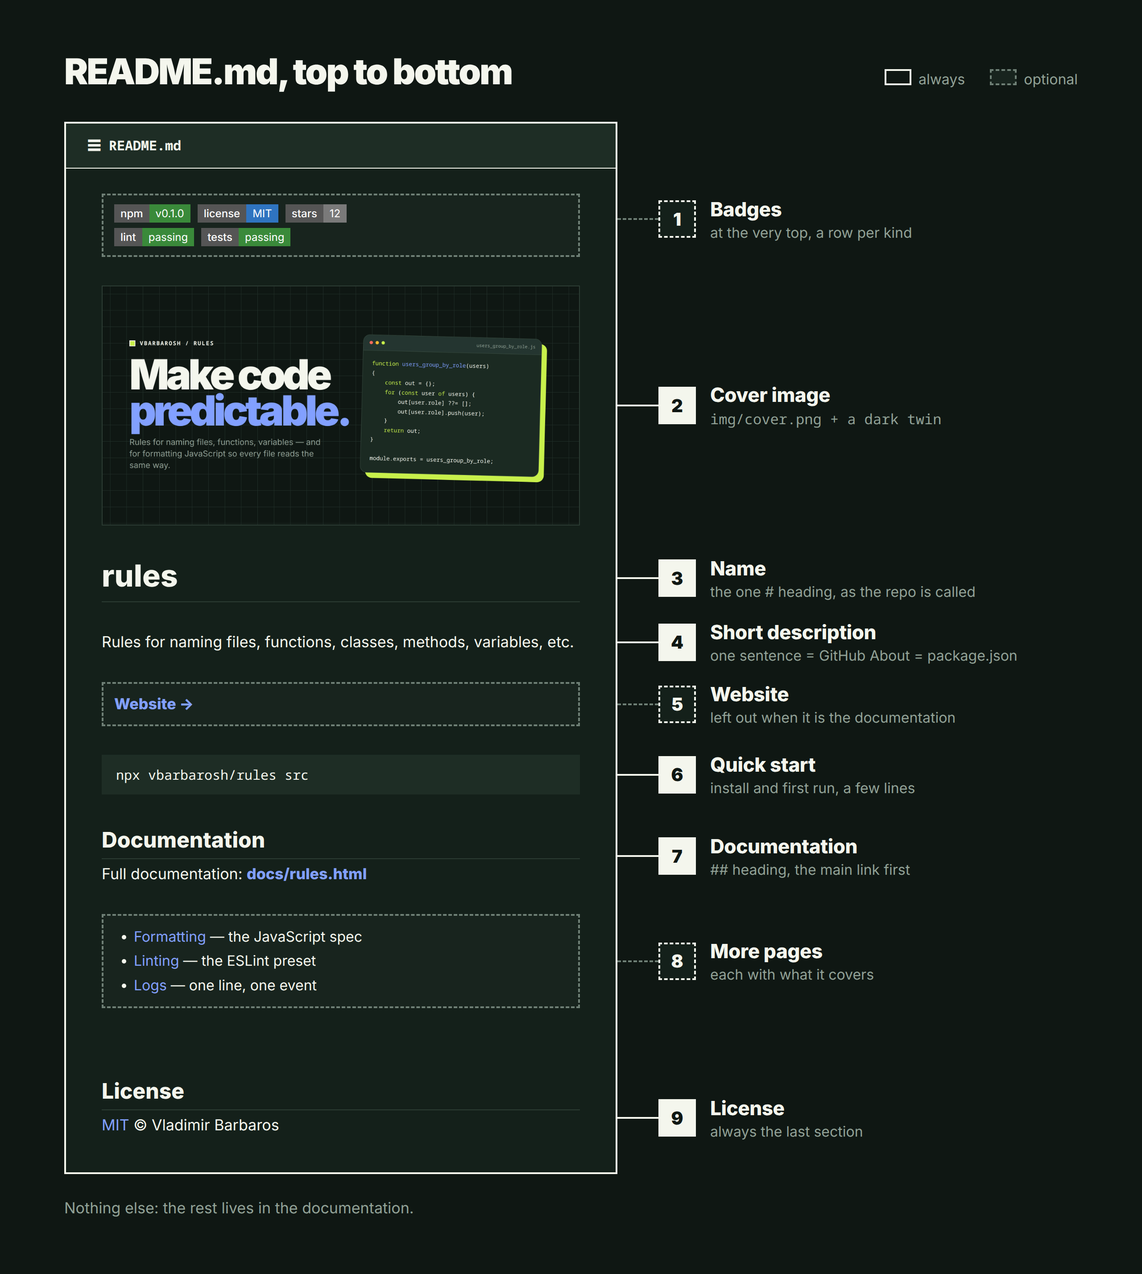
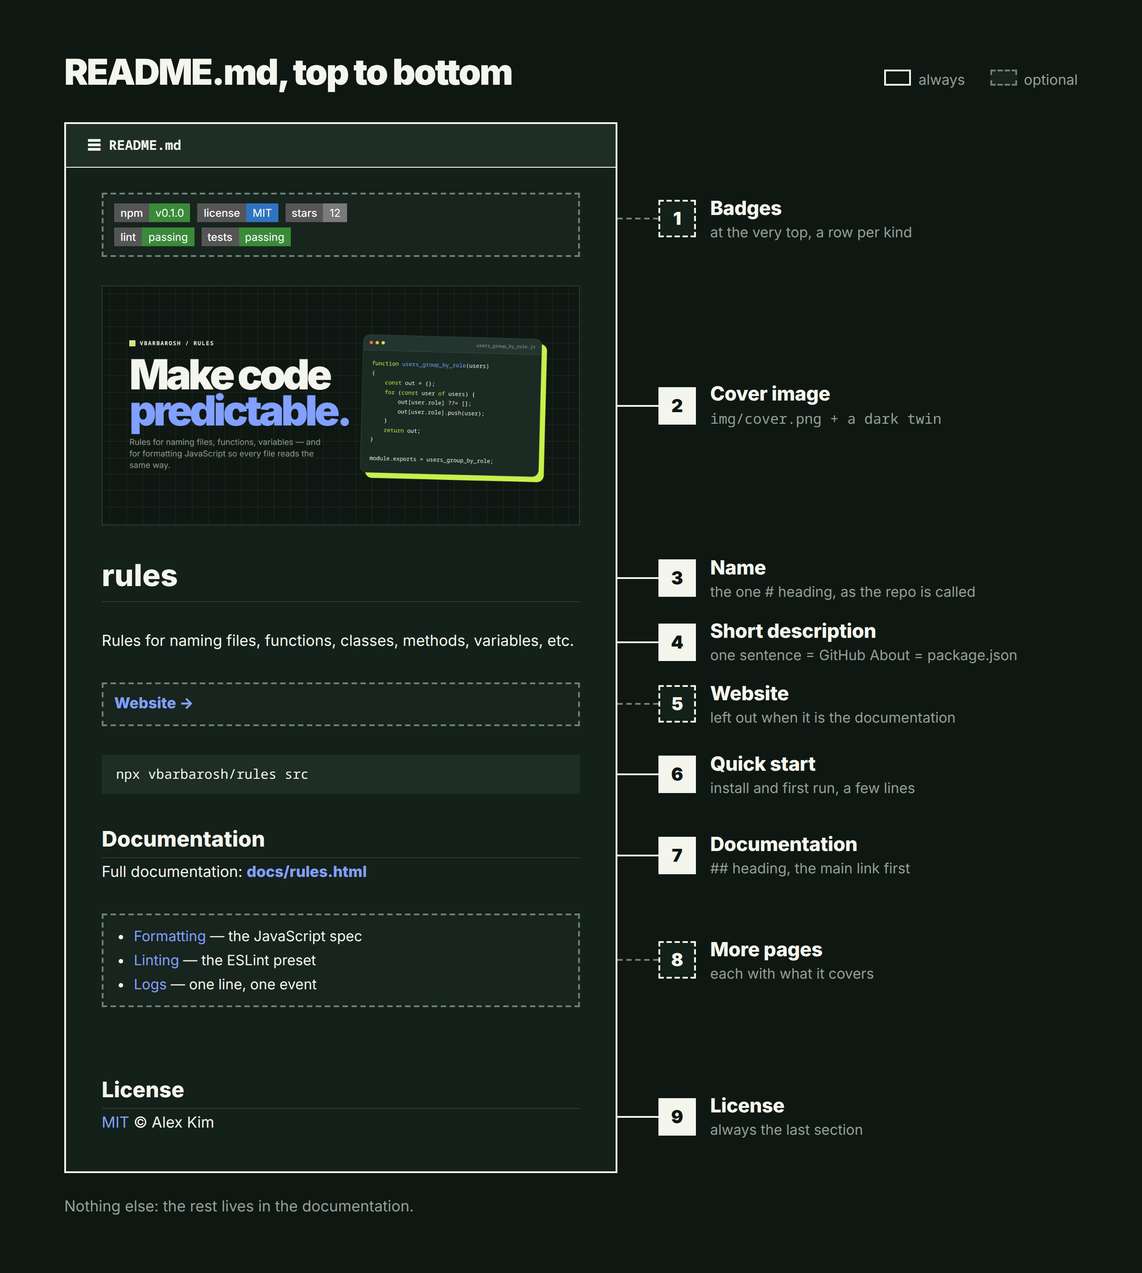
rules: show only what works; examples use made-up names

diff --git a/docs/rules.html b/docs/rules.html
@@ -982,7 +982,7 @@ footer .lead {
     </div>
     <h1>The Rule Index</h1>
     <p class="lede">Every rule in this repository, stated once, in one table. Each row cites the document it came from; that document stays the source of truth.</p>
-    <p class="stats"><b>266</b> rules<i>·</i><b>18</b> groups<i>·</i><b>51</b> sources</p>
+    <p class="stats"><b>269</b> rules<i>·</i><b>18</b> groups<i>·</i><b>52</b> sources</p>
 </div>
 </header>
 
@@ -991,7 +991,7 @@ footer .lead {
         <label class="search">
             <input id="q" type="search" autocomplete="off" spellcheck="false" placeholder="filter rules, e.g. brace, _by_, logs.md" aria-label="Filter rules">
         </label>
-        <span class="count" id="count">266 rules</span>
+        <span class="count" id="count">269 rules</span>
         <button class="copy-shown" id="copy_shown" type="button" title="Copy the rules shown, as Markdown">Copy</button>
         <div class="theme theme-docked">
             <button type="button" aria-label="Light theme. Switch to dark theme." title="Light theme. Switch to dark theme."><!-- theme-icons --><!-- Docusaurus icons: MIT, Copyright Facebook, Inc. and its affiliates. See img/theme-icons.LICENSE. --><svg class="theme-icon theme-light" aria-hidden="true" focusable="false" xmlns="http://www.w3.org/2000/svg" viewBox="0 0 24 24" width="24" height="24"><path fill="currentColor" d="M12,9c1.65,0,3,1.35,3,3s-1.35,3-3,3s-3-1.35-3-3S10.35,9,12,9 M12,7c-2.76,0-5,2.24-5,5s2.24,5,5,5s5-2.24,5-5 S14.76,7,12,7L12,7z M2,13l2,0c0.55,0,1-0.45,1-1s-0.45-1-1-1l-2,0c-0.55,0-1,0.45-1,1S1.45,13,2,13z M20,13l2,0c0.55,0,1-0.45,1-1 s-0.45-1-1-1l-2,0c-0.55,0-1,0.45-1,1S19.45,13,20,13z M11,2v2c0,0.55,0.45,1,1,1s1-0.45,1-1V2c0-0.55-0.45-1-1-1S11,1.45,11,2z M11,20v2c0,0.55,0.45,1,1,1s1-0.45,1-1v-2c0-0.55-0.45-1-1-1C11.45,19,11,19.45,11,20z M5.99,4.58c-0.39-0.39-1.03-0.39-1.41,0 c-0.39,0.39-0.39,1.03,0,1.41l1.06,1.06c0.39,0.39,1.03,0.39,1.41,0s0.39-1.03,0-1.41L5.99,4.58z M18.36,16.95 c-0.39-0.39-1.03-0.39-1.41,0c-0.39,0.39-0.39,1.03,0,1.41l1.06,1.06c0.39,0.39,1.03,0.39,1.41,0c0.39-0.39,0.39-1.03,0-1.41 L18.36,16.95z M19.42,5.99c0.39-0.39,0.39-1.03,0-1.41c-0.39-0.39-1.03-0.39-1.41,0l-1.06,1.06c-0.39,0.39-0.39,1.03,0,1.41 s1.03,0.39,1.41,0L19.42,5.99z M7.05,18.36c0.39-0.39,0.39-1.03,0-1.41c-0.39-0.39-1.03-0.39-1.41,0l-1.06,1.06 c-0.39,0.39-0.39,1.03,0,1.41s1.03,0.39,1.41,0L7.05,18.36z"/></svg><svg class="theme-icon theme-dark" aria-hidden="true" focusable="false" xmlns="http://www.w3.org/2000/svg" viewBox="0 0 24 24" width="24" height="24"><path fill="currentColor" d="M9.37,5.51C9.19,6.15,9.1,6.82,9.1,7.5c0,4.08,3.32,7.4,7.4,7.4c0.68,0,1.35-0.09,1.99-0.27C17.45,17.19,14.93,19,12,19 c-3.86,0-7-3.14-7-7C5,9.07,6.81,6.55,9.37,5.51z M12,3c-4.97,0-9,4.03-9,9s4.03,9,9,9s9-4.03,9-9c0-0.46-0.04-0.92-0.1-1.36 c-0.98,1.37-2.58,2.26-4.4,2.26c-2.98,0-5.4-2.42-5.4-5.4c0-1.81,0.89-3.42,2.26-4.4C12.92,3.04,12.46,3,12,3L12,3z"/></svg><!-- /theme-icons --></button>
@@ -1017,7 +1017,7 @@ footer .lead {
 <a href="#SQL" data-group="SQL"><span class="tag">SQL</span><span class="name">SQL queries</span><span class="n">6</span></a>
 <a href="#VUE" data-group="VUE"><span class="tag">VUE</span><span class="name">Vue 2</span><span class="n">19</span></a>
 <a href="#UI" data-group="UI"><span class="tag">UI</span><span class="name">UI appearance</span><span class="n">8</span></a>
-<a href="#UIM" data-group="UIM"><span class="tag">UIM</span><span class="name">UI mechanics</span><span class="n">12</span></a>
+<a href="#UIM" data-group="UIM"><span class="tag">UIM</span><span class="name">UI mechanics</span><span class="n">15</span></a>
 <a href="#DOC" data-group="DOC"><span class="tag">DOC</span><span class="name">Writing the rules</span><span class="n">13</span></a>
 <a href="#LINT" data-group="LINT"><span class="tag">LINT</span><span class="name">Stated by the linter</span><span class="n">11</span></a>
 </nav>
@@ -1365,7 +1365,7 @@ format_bytes(bytes)             <span class="yes">✓ right</span></pre><button 
 <article class="rule" id="FN-04">
 <a class="code" href="#FN-04">FN-04</a>
 <div class="text"><p><strong>"format" is not serialization.</strong> <code>format_*</code> is not for machine formats. Serialization is conversion, not display.</p><a class="src" href="https://github.com/vbarbarosh/rules/blob/main/drafts/format_xxx.md" title="drafts/format_xxx.md">format_xxx.md</a><button class="copy-rule" type="button" title="Copy this rule as Markdown">Copy</button></div>
-<div class="form"><pre>format_user(user)     <span class="cmt">// "Vladimir B. (admin)" — humans</span>
+<div class="form"><pre>format_user(user)     <span class="cmt">// "Alex K. (admin)" — humans</span>
 json_from_user(user)  <span class="cmt">// machines</span></pre><button class="copy" type="button">Copy</button></div>
 </article>
 <article class="rule" id="FN-06">
@@ -2031,7 +2031,7 @@ docker run -v /srv/app/data:/app/data app</pre><button class="copy" type="button
 <article class="rule" id="PROJ-20">
 <a class="code" href="#PROJ-20">PROJ-20</a>
 <div class="text"><p><strong>The README runs in a fixed order.</strong> A GitHub <code>README.md</code> runs in one order: badges, cover image, name, short description, website, quick start, documentation, license. Badges, the website link and the further documentation pages may be absent; the rest are always there.</p><a class="src" href="https://github.com/vbarbarosh/rules/blob/main/drafts/readme.md" title="drafts/readme.md">readme.md</a><button class="copy-rule" type="button" title="Copy this rule as Markdown">Copy</button></div>
-<a class="form figure" href="../drafts/readme-structure.png"><img class="light" src="../drafts/readme-structure.png" alt="the parts of a README, top to bottom" width="2560" height="2856" loading="lazy"><img class="dark" src="../drafts/readme-structure-dark.png" alt="the parts of a README, top to bottom" width="2560" height="2856" loading="lazy"></a>
+<a class="form figure" href="../drafts/readme-structure.png"><img class="light" src="../drafts/readme-structure.png" alt="the parts of a README, top to bottom" width="2560" height="2854" loading="lazy"><img class="dark" src="../drafts/readme-structure-dark.png" alt="the parts of a README, top to bottom" width="2560" height="2854" loading="lazy"></a>
 </article>
 <article class="rule bare" id="PROJ-21">
 <a class="code" href="#PROJ-21">PROJ-21</a>
@@ -2687,6 +2687,22 @@ window.addEventListener('drop', v =&gt; v.preventDefault());</pre><button class=
 <a class="code" href="#UIM-12">UIM-12</a>
 <div class="text"><p><strong>Select the first actionable item by default.</strong> In a list of action targets, the first visible actionable item in displayed order is selected by default; Enter acts on it. An explicit user selection wins. A new filtered list defaults to its first actionable item; an empty list has no action.</p><a class="src" href="https://github.com/vbarbarosh/rules/blob/main/drafts/default_list_item.md" title="drafts/default_list_item.md">default_list_item.md</a><button class="copy-rule" type="button" title="Copy this rule as Markdown">Copy</button></div>
 <div class="form"><pre>SQLite, LinkedIn → Enter opens SQLite</pre><button class="copy" type="button">Copy</button></div>
+</article>
+<article class="rule" id="UIM-13">
+<a class="code" href="#UIM-13">UIM-13</a>
+<div class="text"><p><strong>Show only what works.</strong> A control the app already knows will fail is not drawn as if it would work: an expired option, the button of an ended chat, an action the user has no right to. Nobody presses a button to be told "Sorry, this has expired".</p><a class="src" href="https://github.com/vbarbarosh/rules/blob/main/drafts/dead_controls.md" title="drafts/dead_controls.md">dead_controls.md</a><button class="copy-rule" type="button" title="Copy this rule as Markdown">Copy</button></div>
+<a class="form figure" href="../drafts/dead-controls.png"><img class="light" src="../drafts/dead-controls.png" alt="a support chat: on the left End chat answers Sorry, this option has timed out; on the right the expired options are gone and the reason is shown" width="2560" height="1284" loading="lazy"><img class="dark" src="../drafts/dead-controls-dark.png" alt="a support chat: on the left End chat answers Sorry, this option has timed out; on the right the expired options are gone and the reason is shown" width="2560" height="1284" loading="lazy"></a>
+</article>
+<article class="rule" id="UIM-14">
+<a class="code" href="#UIM-14">UIM-14</a>
+<div class="text"><p><strong>Ask the action first: a dry run.</strong> Every action can answer "would it work now?" without doing anything. The screen asks before drawing the control, and again whenever the answer can change; a button that expires on screen changes at that moment, not on the next click.</p><a class="src" href="https://github.com/vbarbarosh/rules/blob/main/drafts/dead_controls.md" title="drafts/dead_controls.md">dead_controls.md</a><button class="copy-rule" type="button" title="Copy this rule as Markdown">Copy</button></div>
+<div class="form"><pre>can_end_chat(chat) → false
+→ no End chat button</pre><button class="copy" type="button">Copy</button></div>
+</article>
+<article class="rule" id="UIM-15">
+<a class="code" href="#UIM-15">UIM-15</a>
+<div class="text"><p><strong>No means hidden, or disabled with the reason on it.</strong> Hide what nobody would look for there; disable what the user expects in its place, with the reason written on it or beside it. Never a control whose only answer comes after the click.</p><a class="src" href="https://github.com/vbarbarosh/rules/blob/main/drafts/dead_controls.md" title="drafts/dead_controls.md">dead_controls.md</a><button class="copy-rule" type="button" title="Copy this rule as Markdown">Copy</button></div>
+<div class="form"><pre>Expired yesterday at 10:51</pre><button class="copy" type="button">Copy</button></div>
 </article>
 </section>
 <section class="group" id="DOC">

diff --git a/drafts/dead-controls.html b/drafts/dead-controls.html
@@ -1,0 +1,121 @@
+<!doctype html>
+<html>
+<head>
+<meta charset="utf-8">
+<title>Dead controls</title>
+<style>
+:root {
+    --bg: #f3f0e8;
+    --paper: #fffdf7;
+    --ink: #172019;
+    --muted: #687168;
+    --line: #c9cec4;
+    --bubble: #eeebe2;
+    --accent: #3d62ff;
+    --no: #d63b3b;
+    --yes: #2f8a4a;
+}
+
+html.dark {
+    --bg: #0f1713;
+    --paper: #14201a;
+    --ink: #f4f6ed;
+    --muted: #91a196;
+    --line: #2c3c33;
+    --bubble: #1e2d25;
+    --accent: #82a0ff;
+    --no: #ff6b6b;
+    --yes: #5fd08a;
+}
+
+* { box-sizing: border-box; }
+
+html,
+body { margin: 0; width: 1280px; }
+
+body {
+    padding: 48px 72px 52px;
+    background: var(--bg);
+    color: var(--ink);
+    font-family: Inter, ui-sans-serif, system-ui, sans-serif;
+}
+
+.title { margin-bottom: 28px; font-size: 40px; font-weight: 900; letter-spacing: -0.04em; }
+
+.panels { display: grid; grid-template-columns: 1fr 1fr; gap: 40px; }
+
+.caption { margin-bottom: 12px; font-size: 22px; font-weight: 800; }
+
+.caption.no { color: var(--no); }
+
+.caption.yes { color: var(--yes); }
+
+.caption span { font-weight: 400; color: var(--muted); }
+
+.screen { position: relative; height: 380px; padding: 18px 20px; border: 2px solid var(--ink); background: var(--paper); overflow: hidden; }
+
+.time { margin-bottom: 10px; font-size: 14px; text-align: center; color: var(--muted); }
+
+.bubble { padding: 14px 16px; border-radius: 12px; background: var(--bubble); font-size: 17px; }
+
+.button { margin-top: 10px; padding: 10px; border: 2px solid var(--ink); border-radius: 22px; font-size: 17px; font-weight: 700; text-align: center; }
+
+.button.is-main { border-color: var(--accent); background: var(--accent); color: var(--paper); }
+
+.button.is-pressed { outline: 3px solid var(--no); outline-offset: 3px; }
+
+.expired { margin-top: 12px; font-size: 15px; color: var(--muted); }
+
+.composer { position: absolute; left: 20px; right: 20px; bottom: 18px; padding: 12px 16px; border: 1px solid var(--line); border-radius: 10px; font-size: 16px; color: var(--muted); }
+
+.toast {
+    position: absolute;
+    left: 50%;
+    top: 226px;
+    width: 420px;
+    padding: 14px 18px;
+    border-radius: 10px;
+    background: var(--ink);
+    color: var(--paper);
+    font-size: 16px;
+    text-align: center;
+    transform: translateX(-50%);
+}
+
+.foot { margin-top: 26px; font-size: 18px; color: var(--muted); }
+
+.foot b { color: var(--ink); }
+</style>
+<script>
+if (location.search === '?dark') {
+    document.documentElement.classList.add('dark');
+}
+</script>
+</head>
+<body>
+<div class="title">Show only what works: no button that only says “Sorry”</div>
+<div class="panels">
+    <div>
+        <div class="caption no">✗ Not this <span>pressed, then told it expired</span></div>
+        <div class="screen">
+            <div class="time">Yesterday 10:51</div>
+            <div class="bubble">Is there anything else I can help with?</div>
+            <div class="button is-main">Continue chat</div>
+            <div class="button is-pressed">End chat</div>
+            <div class="toast">Sorry, this option has timed out. Please type your request in the chat.</div>
+            <div class="composer">Type a message</div>
+        </div>
+    </div>
+    <div>
+        <div class="caption yes">✓ This <span>the app knew; it says so up front</span></div>
+        <div class="screen">
+            <div class="time">Yesterday 10:51</div>
+            <div class="bubble">Is there anything else I can help with?</div>
+            <div class="expired">These options expired yesterday at 10:51. Type below to go on.</div>
+            <div class="composer">Type a message</div>
+        </div>
+    </div>
+</div>
+<div class="foot"><b>Before drawing a control, ask its action “would this work now?”</b> No: hide it, or disable it with the reason on it.</div>
+</body>
+</html>

diff --git a/drafts/readme-structure.html b/drafts/readme-structure.html
@@ -327,7 +327,7 @@ if (location.search === '?dark') {
 
     <div class="page page-last">
         <div class="part h2">License</div>
-        <div class="part text"><a>MIT</a> &copy; Vladimir Barbaros</div>
+        <div class="part text"><a>MIT</a> &copy; Alex Kim</div>
     </div>
     <div class="label">
         <div class="num">9</div>

diff --git a/docs/rules.md b/docs/rules.md
@@ -3,7 +3,7 @@
 Every rule in this repository, stated once, in one table. Each row cites the
 document it came from; that document stays the source of truth.
 
-266 rules · 18 groups · 51 sources · filterable version: [rules.html](rules.html)
+269 rules · 18 groups · 52 sources · filterable version: [rules.html](rules.html)
 
 Codes match [rules.html](rules.html): a rule that page does not carry is
 appended to the end of its group, and `LINT` is a group of its own.
@@ -29,7 +29,7 @@ In the canonical forms, `✓` and `✗` are verdicts, not code.
 | SQL | SQL queries | 6 | MySQL: upper-case keywords; the query laid out like code. |
 | VUE | Vue 2 | 19 | Components that behave like the platform. |
 | UI | UI appearance | 8 | How a screen looks. |
-| UIM | UI mechanics | 12 | How a screen works. |
+| UIM | UI mechanics | 15 | How a screen works. |
 | DOC | Writing the rules | 13 | How a document in this repo is built. |
 | LINT | Stated by the linter | 11 | Rules that only LINTING.md and the preset spell out. |
 
@@ -82,7 +82,7 @@ In the canonical forms, `✓` and `✗` are verdicts, not code.
 | FN-05 | **"render" constructs asset content.** `render_*` constructs content such as CSS, HTML or SVG from state. The result can be a string; its purpose is an asset rather than a human-facing formatted value. | <pre>public function render_css(): string<br>{<br>    return "body { color: {$this-&gt;text_color}; }";<br>}</pre> | [render_xxx.md](../drafts/render_xxx.md) |
 | FN-02 | **Never hand-roll a display conversion.** A display conversion is never hand-rolled at a call site — an inline one is a missed `format_*`. | <pre>${Math.round(bytes / 1024)}kB   ✗ missed call<br>format_bytes(bytes)             ✓ right</pre> | [format_xxx.md](../drafts/format_xxx.md) |
 | FN-03 | **`format_*` returns — it never prints.** Output is the caller’s job. | `console.log(format_tree(tree));` | [format_xxx.md](../drafts/format_xxx.md) |
-| FN-04 | **"format" is not serialization.** `format_*` is not for machine formats. Serialization is conversion, not display. | <pre>format_user(user)     // "Vladimir B. (admin)" — humans<br>json_from_user(user)  // machines</pre> | [format_xxx.md](../drafts/format_xxx.md) |
+| FN-04 | **"format" is not serialization.** `format_*` is not for machine formats. Serialization is conversion, not display. | <pre>format_user(user)     // "Alex K. (admin)" — humans<br>json_from_user(user)  // machines</pre> | [format_xxx.md](../drafts/format_xxx.md) |
 | FN-06 | **"render" is recomputed, never stored.** The prefix separates constructed content from stored attributes. `render_*` is recomputed per call — never cached, never stored. | <pre>$this-&gt;text_color     // stored attribute<br>$this-&gt;render_css()   // constructed content</pre> | [render_xxx.md](../drafts/render_xxx.md) |
 | FN-07 | **"render" may return null or throw.** `render_*` may return `null` when not applicable, and may throw when the state makes the value meaningless. | <pre>if (!$this-&gt;theme) {<br>    return null;<br>}</pre> | [render_xxx.md](../drafts/render_xxx.md) |
 | FN-08 | **"render" is sync and pure; downloads are "export".** `render_*` constructs content without DOM updates, file writes or downloads, and always returns its result. A function that brings a part of the page up to date returns nothing and is `refresh_<what>` (FN-10), never `<what>_render`. A downloadable artifact — zip, csv or xlsx — is `export_*`, which may be async and side-effectful. | <pre>$theme-&gt;render_css()    // construct CSS content<br>refresh_theme_labels()  // bring a part of the page up to date<br>export_zip()            // produce a downloadable artifact</pre> | [render_xxx.md](../drafts/render_xxx.md) |
@@ -293,6 +293,9 @@ In the canonical forms, `✓` and `✗` are verdicts, not code.
 | UIM-10 | **Use optimistic updates; the user keeps working.** Keep the backend snapshot immutable and local pending changes separate. Show the local change and send its update immediately. After acknowledgement, reread the backend, replace the snapshot, and clear only the pending change confirmed by that result; preserve later actions and reject stale refreshes. Show the change where the user made it, at once, marked as waiting, whatever route it takes inside. Keep failures visible as unsynchronized and retry safely; if only the reread failed, retry that step. | <pre>Read → local overlay → update → acknowledgement<br>→ refresh → replace snapshot → clear confirmed overlay</pre> ![Send is pressed: on the left the comment is nowhere for 2 seconds, then it shows; on the right it shows at once marked Sending, and the mark goes when the server has it](../drafts/optimistic-updates.gif) | [optimistic_updates.md](../drafts/optimistic_updates.md) |
 | UIM-11 | **Typing focuses the main search, first character included.** On a page with one primary search/filter, typing outside editable fields focuses it immediately and enters the first character too. Local inputs retain their typing; respect shortcuts and native keyboard behavior. | <pre>Click background → type sm → main filter contains sm</pre> | [main_search.md](../drafts/main_search.md) |
 | UIM-12 | **Select the first actionable item by default.** In a list of action targets, the first visible actionable item in displayed order is selected by default; Enter acts on it. An explicit user selection wins. A new filtered list defaults to its first actionable item; an empty list has no action. | <pre>SQLite, LinkedIn → Enter opens SQLite</pre> | [default_list_item.md](../drafts/default_list_item.md) |
+| UIM-13 | **Show only what works.** A control the app already knows will fail is not drawn as if it would work: an expired option, the button of an ended chat, an action the user has no right to. Nobody presses a button to be told "Sorry, this has expired". | ![a support chat: on the left End chat answers Sorry, this option has timed out; on the right the expired options are gone and the reason is shown](../drafts/dead-controls.png) | [dead_controls.md](../drafts/dead_controls.md) |
+| UIM-14 | **Ask the action first: a dry run.** Every action can answer "would it work now?" without doing anything. The screen asks before drawing the control, and again whenever the answer can change; a button that expires on screen changes at that moment, not on the next click. | <pre>can_end_chat(chat) → false<br>→ no End chat button</pre> | [dead_controls.md](../drafts/dead_controls.md) |
+| UIM-15 | **No means hidden, or disabled with the reason on it.** Hide what nobody would look for there; disable what the user expects in its place, with the reason written on it or beside it. Never a control whose only answer comes after the click. | `Expired yesterday at 10:51` | [dead_controls.md](../drafts/dead_controls.md) |
 | **DOC** | **Writing the rules** — How a document in this repo is built. | | |
 | DOC-01 | **A document has two halves.** The author writes the top half, compressed around what he already knows; the AI writes the bottom half, restating it for a reader who lacks that context. | — | [WRITING.md](../drafts/WRITING.md) |
 | DOC-02 | **Author sources govern the explanation.** Read the top half and applicable manually approved rules. An approved entry may explicitly clarify older wording within its scope; if the sources disagree without such a decision, ask before regenerating. | — | [WRITING.md](../drafts/WRITING.md) |

diff --git a/drafts/dead_controls.md b/drafts/dead_controls.md
@@ -1,0 +1,59 @@
+- A rule, its wording still open: do not offer UI elements that are known
+  not to work, known in advance.
+- For example, there is a button; you press it and it says "sorry, this is
+  expired". Then why show it?
+- I just ran into it: a support chat, I pressed "End chat" and got such a
+  "sorry". That is silly and wrong; such elements should not be shown.
+- The implementation is hard, one can only imagine it: an ideal interface
+  where every action has a dry run. Before showing something, we run the dry
+  run; if it returns false, we do not show it, or we make the button
+  disabled with a notice like "expired".
+
+
+# Show only what works
+
+A control the app already knows will fail is not on the screen. The user
+never presses a button to be told it no longer works.
+
+<picture>
+  <source media="(prefers-color-scheme: dark)" srcset="dead-controls-dark.png">
+  <img alt="a support chat: on the left End chat answers &quot;Sorry, this option has timed out&quot;; on the right the expired options are gone and the reason is shown" src="dead-controls.png">
+</picture>
+
+The picture is drawn by [dead-controls.html](dead-controls.html) and
+rendered to `dead-controls.png` and `dead-controls-dark.png` (`?dark`).
+
+## Why
+
+A control on the screen is a promise: press me and this happens. When the
+app already knows the answer is no, an expired option, a chat that has
+ended, an action the user's plan does not include, showing the control
+anyway turns the promise into a trap. The user reads it, decides, presses,
+and only then learns that none of it was possible. The click is wasted, and
+so is the trust: the next button looks just as likely to lie.
+
+A notice after the click is the worst place for the reason. The app knew it
+before the click, and the user needed it before deciding.
+
+## The rule
+
+1. **Show only what works.** A control whose action is known to fail is not
+   drawn as if it would work: not an expired option, not the button of an
+   ended chat, not an action the user has no right to.
+2. **Ask the action first: a dry run.** Every action can answer "would it
+   work now?" without doing anything. The screen asks before it draws the
+   control, and asks again whenever the answer can change: when the option
+   expires, when the data under it changes. A button that expires while on
+   screen changes at that moment, not on the next click.
+3. **No means hidden, or disabled with the reason on it.**
+   - Hide what nobody would look for there: the options of a conversation
+     that has moved on.
+   - Disable what the user expects to find in its place, and write the
+     reason on it or beside it: "Expired yesterday at 10:51", "Available
+     on the Team plan".
+   - Never a control whose only answer is "Sorry" after the click.
+
+The dry run can still be wrong: something may change between the check and
+the click. Then the click fails honestly, says why, and the control is
+redrawn from the new answer. That is the rare case; a control that fails
+every time is not.

diff --git a/drafts/format_xxx.md b/drafts/format_xxx.md
@@ -18,7 +18,7 @@ console.log(format_tree(tree));
 Not for machine formats — serialization is conversion, not display:
 
 ```js
-format_user(user)     // "Vladimir B. (admin)" — for humans
+format_user(user)     // "Alex K. (admin)" — for humans
 json_from_user(user)  // for machines
 ```
 
